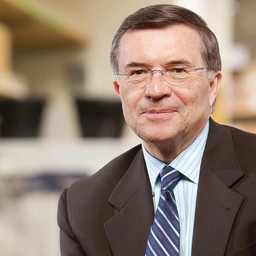
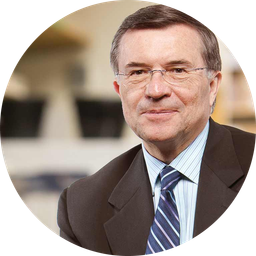
Updated Speakers

diff --git a/panels/panel.html b/panels/panel.html
@@ -6,30 +6,30 @@
 
       <div class="speaker-row reveal">
         <div class="spk-group">
-          <h3 class="spk-cat">Unorthodox AI Architectures</h3>
+          <h3 class="spk-cat">Rethinking Architectures</h3>
           <div class="spk-pair">
-            <div class="person tba"><div class="avatar"></div><span class="role pend">Pending</span><span class="name">[Speaker pending confirmation]</span><span class="aff">Invitation sent</span></div>
             <a class="person" href="https://people.epfl.ch/sabine.susstrunk" target="_blank" rel="noopener"><div class="avatar has-photo"><img src="assets/speakers/susstrunk.png" alt="Sabine Süsstrunk"></div><span class="role">Confirmed</span><span class="name">Sabine Süsstrunk</span><span class="aff">EPFL</span></a>
+            <a class="person" href="https://konklab.fas.harvard.edu/" target="_blank" rel="noopener"><div class="avatar has-photo"><img src="assets/speakers/konkle.png" alt="Talia Konkle"></div><span class="role">Confirmed</span><span class="name">Talia Konkle</span><span class="aff">Harvard University</span></a>
           </div>
         </div>
 
         <div class="spk-div"></div>
 
         <div class="spk-group">
-          <h3 class="spk-cat">Unorthodox AI Hardware</h3>
+          <h3 class="spk-cat">Rethinking Learning &amp; Inference</h3>
           <div class="spk-pair">
-            <div class="person tba"><div class="avatar"></div><span class="role pend">Pending</span><span class="name">[Speaker pending confirmation]</span><span class="aff">Invitation sent</span></div>
-            <div class="person tba"><div class="avatar"></div><span class="role pend">Pending</span><span class="name">[Speaker pending confirmation]</span><span class="aff">Invitation sent</span></div>
+            <a class="person" href="https://redwood.berkeley.edu/people/bruno-olshausen/" target="_blank" rel="noopener"><div class="avatar has-photo"><img src="assets/speakers/olshausen.png" alt="Bruno Olshausen"></div><span class="role">Confirmed</span><span class="name">Bruno Olshausen</span><span class="aff">UC Berkeley</span></a>
+            <a class="person" href="https://scholar.google.com/citations?user=hnTDmigAAAAJ&amp;hl=en" target="_blank" rel="noopener"><div class="avatar has-photo"><img src="assets/speakers/seely.png" alt="Jeffrey Seely"></div><span class="role">Confirmed</span><span class="name">Jeffrey Seely</span><span class="aff">Sakana AI</span></a>
           </div>
         </div>
 
         <div class="spk-div"></div>
 
         <div class="spk-group">
-          <h3 class="spk-cat">Unorthodox Biological Hardware</h3>
+          <h3 class="spk-cat">Rethinking the Foundations of Computation</h3>
           <div class="spk-pair">
             <a class="person" href="https://www.salk.edu/scientist/terrence-sejnowski/" target="_blank" rel="noopener"><div class="avatar has-photo"><img src="assets/speakers/sejnowski.png" alt="Terrence Sejnowski"></div><span class="role">Confirmed</span><span class="name">Terrence Sejnowski</span><span class="aff">Salk Institute</span></a>
-            <div class="person tba"><div class="avatar"></div><span class="role pend">Pending</span><span class="name">[Speaker pending confirmation]</span><span class="aff">Invitation sent</span></div>
+            <a class="person" href="https://mcmahon.aep.cornell.edu/" target="_blank" rel="noopener"><div class="avatar has-photo"><img src="assets/speakers/mcmahon.png" alt="Peter McMahon"></div><span class="role">Confirmed</span><span class="name">Peter McMahon</span><span class="aff">Cornell / Unconventional AI</span></a>
           </div>
         </div>
       </div>
@@ -39,10 +39,10 @@
       </div>
       <div class="panel-people reveal">
         <a class="person" href="https://www.ninamiolane.com/" target="_blank" rel="noopener"><div class="avatar has-photo"><img src="assets/panelists/miolane.png" alt="Nina Miolane"></div><span class="role">Confirmed</span><span class="name">Nina Miolane</span><span class="aff">UC Santa Barbara</span></a>
-        <a class="person" href="https://scholar.google.com/citations?user=hnTDmigAAAAJ&amp;hl=en" target="_blank" rel="noopener"><div class="avatar"></div><span class="role">Confirmed</span><span class="name">Jeffrey Seely</span><span class="aff">Sakana AI</span></a>
-        <div class="person tba"><div class="avatar"></div><span class="role pend">Pending</span><span class="name">[Panelist pending confirmation]</span><span class="aff">Invitation sent</span></div>
-        <div class="person tba"><div class="avatar"></div><span class="role pend">Pending</span><span class="name">[Panelist pending confirmation]</span><span class="aff">Invitation sent</span></div>
-        <div class="person tba"><div class="avatar"></div><span class="role pend">Pending</span><span class="name">[Panelist pending confirmation]</span><span class="aff">Invitation sent</span></div>
+        <a class="person" href="https://mullerlab.io/" target="_blank" rel="noopener"><div class="avatar has-photo"><img src="assets/panelists/muller.png" alt="Lyle Muller"></div><span class="role">Confirmed</span><span class="name">Lyle Muller</span><span class="aff">UT Dallas</span></a>
+        <a class="person" href="https://scholar.google.com/citations?user=LMFIFBcAAAAJ&amp;hl=en" target="_blank" rel="noopener"><div class="avatar has-photo"><img src="assets/panelists/vastola.png" alt="John Vastola"></div><span class="role">Confirmed</span><span class="name">John Vastola</span><span class="aff">Harvard Medical School</span></a>
+        <div class="person tba"><div class="avatar"></div><span class="role pend">Pending</span><span class="name">[To Be Determined]</span></div>
+        <div class="person tba"><div class="avatar"></div><span class="role pend">Pending</span><span class="name">[To Be Determined]</span></div>
       </div>
     </div>
   </section>

diff --git a/panels/organizers.html b/panels/organizers.html
@@ -7,18 +7,19 @@
       <div class="people">
         <a class="person reveal" href="https://chasevdg.github.io/" target="_blank" rel="noopener"><div class="avatar has-photo"><img src="assets/organizers/chase.png" alt="Chase van de Geijn"></div><span class="role">Organizer</span><span class="name">Chase van de Geijn</span><span class="aff">University of Göttingen</span></a>
         <a class="person reveal" href="https://hansenlillemark.com/" target="_blank" rel="noopener"><div class="avatar has-photo"><img src="assets/organizers/hansen.png" alt="Hansen Lillemark"></div><span class="role">Organizer</span><span class="name">Hansen Lillemark</span><span class="aff">UC San Diego</span></a>
-        <a class="person reveal" href="https://akandykeller.github.io/" target="_blank" rel="noopener"><div class="avatar has-photo"><img src="assets/organizers/andy.png" alt="T. Anderson Keller"></div><span class="role">Senior Organizer</span><span class="name">T. Anderson Keller</span><span class="aff">CuspAI</span></a>
+        <a class="person reveal" href="https://akandykeller.github.io/" target="_blank" rel="noopener"><div class="avatar has-photo"><img src="assets/organizers/andy.png" alt="T. Anderson Keller"></div><span class="role">Senior Organizer</span><span class="name">T. Anderson Keller</span><span class="aff">Cold Spring Harbor Laboratory</span></a>
         <a class="person reveal" href="https://staff.fnwi.uva.nl/e.j.bekkers/" target="_blank" rel="noopener"><div class="avatar has-photo"><img src="assets/organizers/erik.png" alt="Erik Bekkers"></div><span class="role">Senior Organizer</span><span class="name">Erik Bekkers</span><span class="aff">University of Amsterdam</span></a>
       </div>
 
       <div class="sec-head reveal" style="margin-top:clamp(48px,6vw,80px)">
         <h3>Area Chairs</h3>
       </div>
-      <div class="people">
-        <div class="person tba reveal"><div class="avatar"></div><span class="role">Area Chair</span><span class="name">To be announced</span><span class="aff">TBA</span></div>
-        <div class="person tba reveal"><div class="avatar"></div><span class="role">Area Chair</span><span class="name">To be announced</span><span class="aff">TBA</span></div>
-        <div class="person tba reveal"><div class="avatar"></div><span class="role">Area Chair</span><span class="name">To be announced</span><span class="aff">TBA</span></div>
-        <div class="person tba reveal"><div class="avatar"></div><span class="role">Area Chair</span><span class="name">To be announced</span><span class="aff">TBA</span></div>
+      <div class="people ac">
+        <a class="person reveal" href="https://kempnerinstitute.harvard.edu/people/our-people/richard-hakim/" target="_blank" rel="noopener"><div class="avatar has-photo"><img src="assets/area_chairs/hakim.png" alt="Richard Hakim"></div><span class="role">Area Chair</span><span class="name">Richard Hakim</span><span class="aff">Kempner Institute, Harvard</span></a>
+        <a class="person reveal" href="https://mullerlab.io/" target="_blank" rel="noopener"><div class="avatar has-photo"><img src="assets/area_chairs/muller.png" alt="Lyle Muller"></div><span class="role">Area Chair</span><span class="name">Lyle Muller</span><span class="aff">UT Dallas</span></a>
+        <a class="person reveal" href="https://gizemozd.github.io/" target="_blank" rel="noopener"><div class="avatar has-photo"><img src="assets/area_chairs/ozdil.png" alt="Pembe Gizem Özdil"></div><span class="role">Area Chair</span><span class="name">Pembe Gizem Özdil</span><span class="aff">EPFL</span></a>
+        <a class="person reveal" href="https://bastian.rieck.me/" target="_blank" rel="noopener"><div class="avatar has-photo"><img src="assets/area_chairs/rieck.png" alt="Bastian Grossenbacher-Rieck"></div><span class="role">Area Chair</span><span class="name">Bastian Grossenbacher&#8209;Rieck</span><span class="aff">University of Fribourg</span></a>
+        <a class="person reveal" href="https://ftudisco.gitlab.io/" target="_blank" rel="noopener"><div class="avatar has-photo"><img src="assets/area_chairs/tudisco.png" alt="Francesco Tudisco"></div><span class="role">Area Chair</span><span class="name">Francesco Tudisco</span><span class="aff">University of Edinburgh</span></a>
       </div>
     </div>
   </section>

diff --git a/css/styles.css b/css/styles.css
@@ -459,3 +459,13 @@
   @media (max-width:400px){ #panel .panel-people{grid-template-columns:1fr} }
   .fact .v .trk{display:block}
   .fact .v .trk + .est{display:inline-block; margin-top:5px}
+
+  /* area chairs: compact grid */
+  #organizers .people.ac{grid-template-columns:repeat(5,1fr)}
+  #organizers .people.ac .person{align-items:center; text-align:center; padding:16px 12px; gap:3px}
+  #organizers .people.ac .avatar{width:84px; height:84px; margin:0 auto 12px}
+  #organizers .people.ac .name{font-size:14.5px; line-height:1.25}
+  #organizers .people.ac .aff{font-size:12px}
+  @media (max-width:1000px){ #organizers .people.ac{grid-template-columns:repeat(3,1fr)} }
+  @media (max-width:620px){ #organizers .people.ac{grid-template-columns:repeat(2,1fr)} }
+  @media (max-width:400px){ #organizers .people.ac{grid-template-columns:1fr} }
